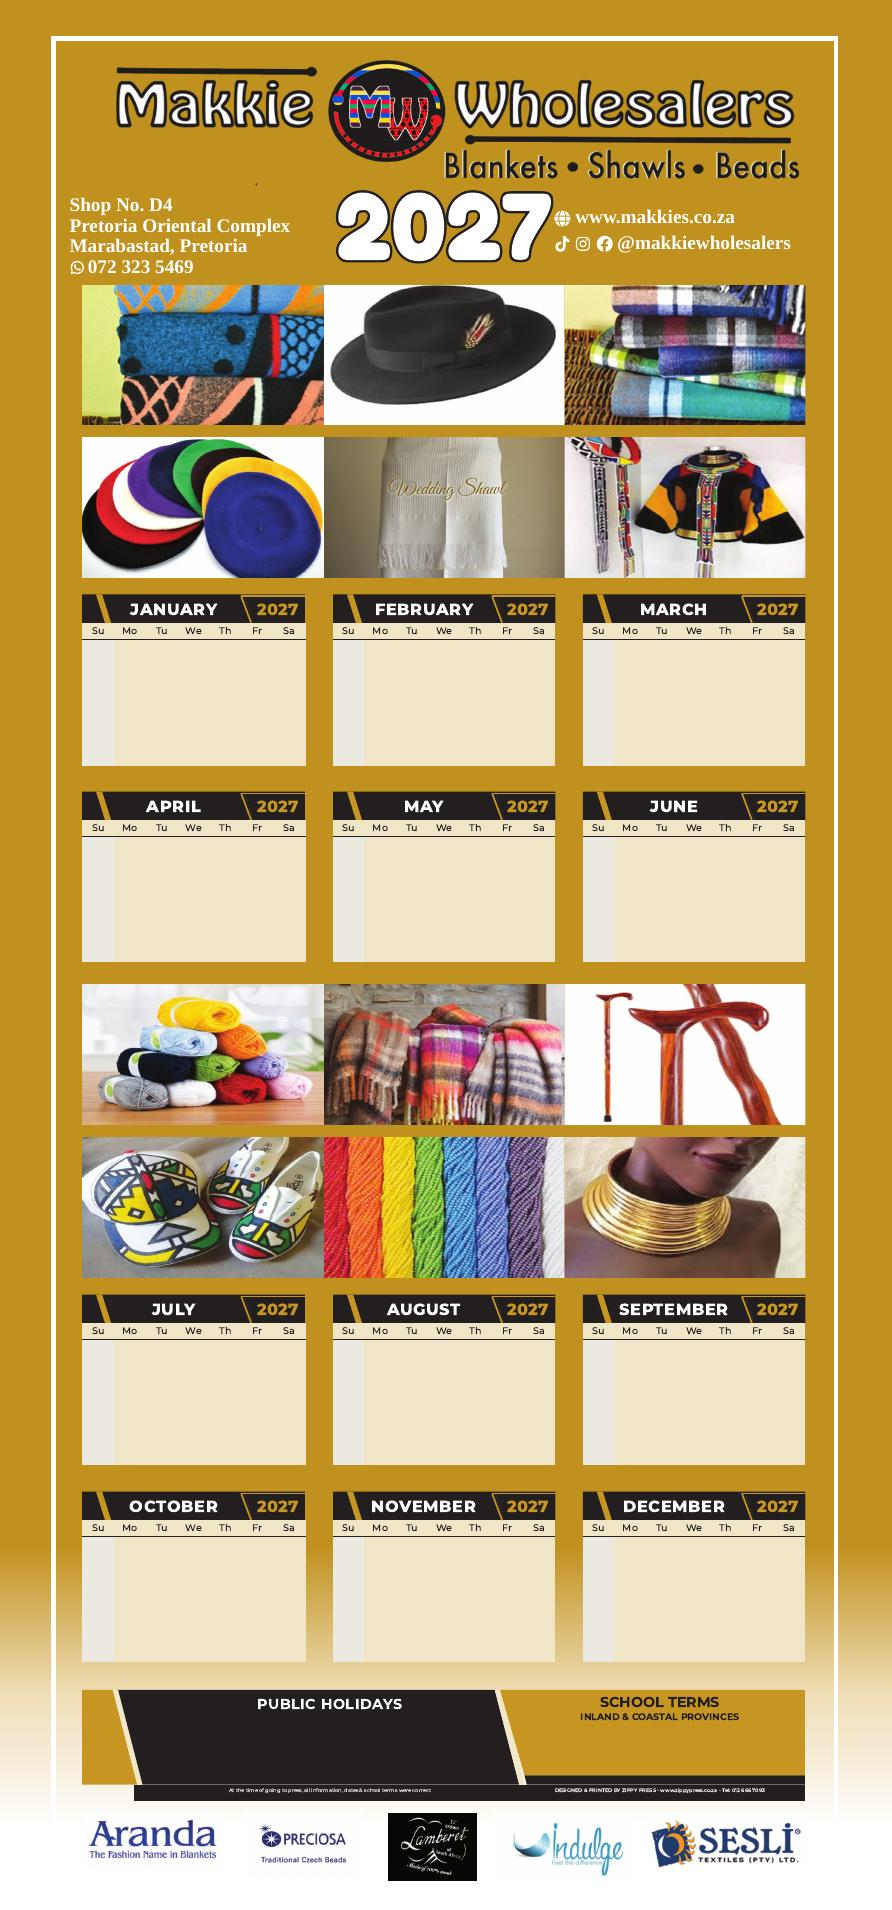
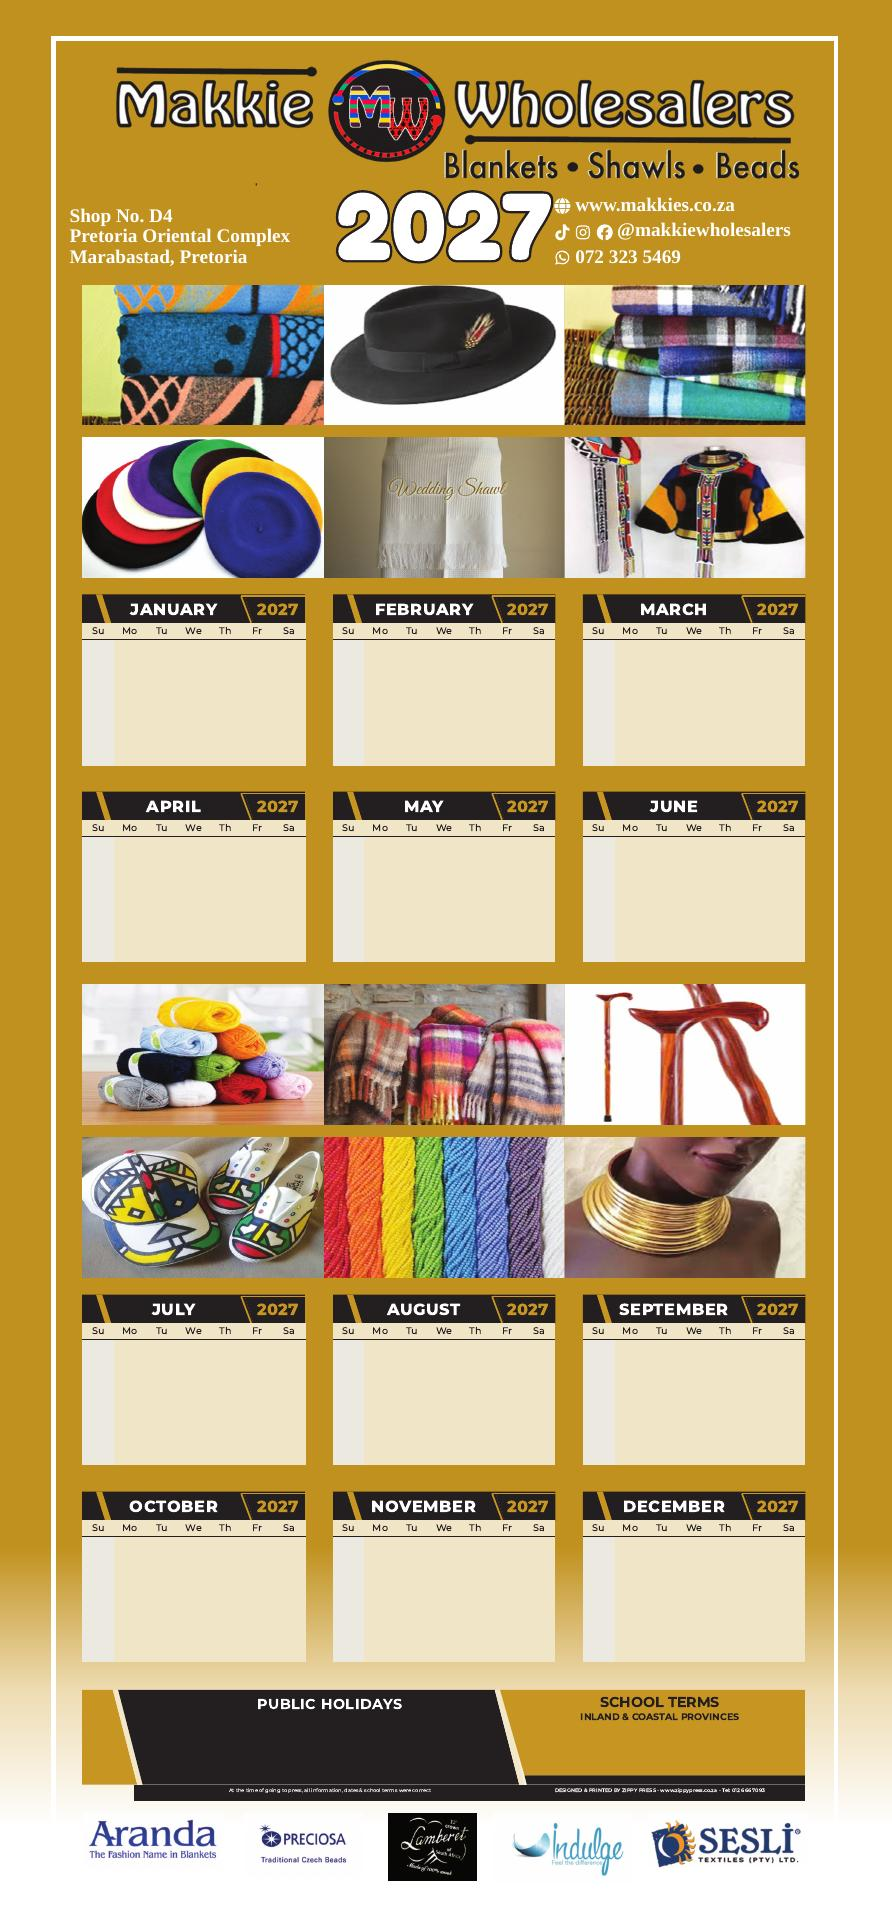
Move WhatsApp number below the social handles
Claude-Session: https://claude.ai/code/session_01FrAdmZhbnvV2Pi8Ea2YxmY

Changed region(s): [[0.6054, 0.0927, 0.8778, 0.1545], [0.0605, 0.0927, 0.333, 0.1545]]

diff --git a/marketing/calendar-2027/source/build.py b/marketing/calendar-2027/source/build.py
@@ -113,9 +113,9 @@ html,body{{width:673.937pt;height:1340.079pt;background:#fff;-webkit-print-color
 #panel{{position:absolute;left:33.65pt;top:24.29pt;width:515.4pt;height:1240pt;border:3pt solid #fff;border-bottom:none}}
 .cm{{position:absolute;background:#000}}
 #banner{{position:absolute;left:35.7pt;top:27.6pt;width:512.4pt;height:93.6pt}}
-#addr{{position:absolute;left:45.7pt;top:128.5pt;font-family:Tinos,serif;font-weight:700;font-size:12.6pt;line-height:13.4pt;color:#fff}} #addr .wa{{color:{SOC}}}
+#addr{{position:absolute;left:45.7pt;top:135pt;font-family:Tinos,serif;font-weight:700;font-size:12.6pt;line-height:13.4pt;color:#fff}} #addr .wa{{color:{SOC}}}
 #year{{position:absolute;left:0;width:583.937pt;top:117pt;text-align:center;font-family:Fredoka,sans-serif;font-weight:700;font-size:62pt;line-height:1;color:#fff;-webkit-text-stroke:3.2pt #231F20;paint-order:stroke fill;letter-spacing:1pt}}
-#soc{{position:absolute;left:363pt;top:136pt;font-family:Tinos,serif;font-weight:700;font-size:12.6pt;line-height:14pt;color:{SOC}}}
+#soc{{position:absolute;left:363pt;top:128pt;font-family:Tinos,serif;font-weight:700;font-size:12.6pt;line-height:14pt;color:{SOC}}}
 #soc div{{display:flex;align-items:center;gap:3.2pt;white-space:nowrap;margin-bottom:3pt}}
 .ic{{width:10.5pt;height:10.5pt;flex:none}}
 #addr .ic{{width:10pt;height:10pt;vertical-align:-1.2pt;margin-right:2pt}}
@@ -154,11 +154,12 @@ html,body{{width:673.937pt;height:1340.079pt;background:#fff;-webkit-print-color
 <div id="trim">
  <div id="bg"></div><div id="panel"></div>
  {header(theme, logo)}
- <div id="addr">Shop No. D4<br>Pretoria Oriental Complex<br>Marabastad, Pretoria<br><span class="wa">{icon('whatsapp', SOC)}072 323 5469</span></div>
+ <div id="addr">Shop No. D4<br>Pretoria Oriental Complex<br>Marabastad, Pretoria</div>
  <div id="year">{YEAR}</div>
  <div id="soc">
    <div>{icon('globe', SOC)}<span>www.makkies.co.za</span></div>
    <div>{icon('tiktok', SOC)}{icon('instagram', SOC)}{icon('facebook', SOC)}<span>@makkiewholesalers</span></div>
+   <div>{icon('whatsapp', SOC)}<span>072 323 5469</span></div>
  </div>
  {''.join(ph)}
  {''.join(months)}
